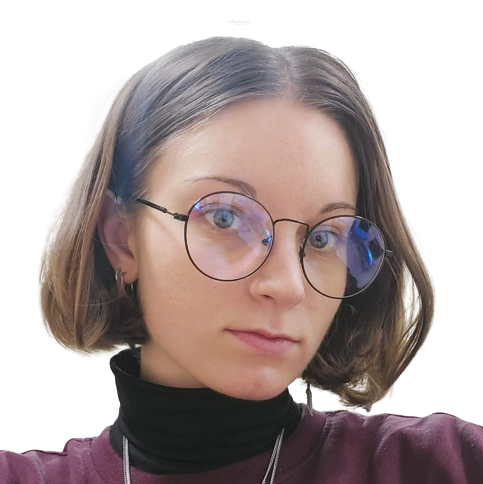
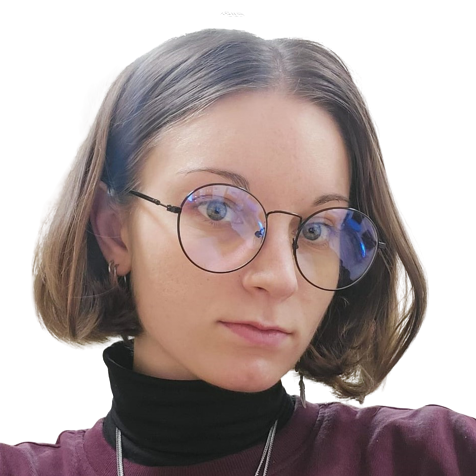
fixed img in About

diff --git a/assets/css+sass/about.css b/assets/css+sass/about.css
@@ -1,1 +1,1 @@
-@import url("https://fonts.googleapis.com/css2?family=Megrim&display=swap");@import url("https://fonts.googleapis.com/css2?family=Poiret+One&display=swap");@keyframes menuAppear{0%{opacity:0;margin-top:-50px}50%{opacity:0;margin-top:-50px}100%{opacity:1;margin-top:0}}@keyframes slide1Appear{0%{opacity:0;margin-left:-900px}100%{opacity:1;margin-left:0px}}@keyframes slide1Move{100%{transform:translateX(-50%)}}@keyframes img1Appear{from{opacity:0;margin-top:-500px}to{opacity:1;margin-top:0}}@keyframes img2Appear{from{opacity:0;margin-top:500px}to{opacity:1;margin-top:0}}@keyframes introductionAppear{0%{opacity:0;margin-bottom:-100px}50%{opacity:0;margin-bottom:-100px}100%{opacity:1;margin-bottom:0px}}@keyframes introOOAppear{0%{top:50%;left:50%;transform:translate(-50%, -50%);width:0px}15%{top:50%;left:50%;transform:translate(-50%, -50%);width:100px}25%{top:50%;left:50%;transform:translate(-50%, -50%);width:100px}75%{top:50%;left:50%;transform:translate(-50%, -50%);width:100px}100%{top:50%;left:0%;transform:translateY(-50%);width:55px}}@keyframes introLLAppear{0%{top:50%;left:50%;transform:translate(-50%, -50%);width:0px}15%{top:50%;left:50%;transform:translate(-50%, -50%);width:100px}25%{top:50%;left:50%;transform:translate(-50%, -50%);width:100px}75%{top:50%;left:50%;transform:translate(-50%, -50%);width:100px}100%{top:50%;left:25%;transform:translateY(-50%);width:55px}}@keyframes introGGAppear{0%{top:50%;left:50%;transform:translate(-50%, -50%);width:0px}15%{top:50%;left:50%;transform:translate(-50%, -50%);width:100px}25%{top:50%;left:50%;transform:translate(-50%, -50%);width:100px}75%{top:50%;left:50%;transform:translate(-50%, -50%);width:100px}100%{top:50%;left:50%;transform:translateY(-50%);width:55px}}@keyframes introAAAppear{0%{top:50%;left:50%;transform:translate(-50%, -50%);width:0px}15%{top:50%;left:50%;transform:translate(-50%, -50%);width:100px}25%{top:50%;left:50%;transform:translate(-50%, -50%);width:100px}75%{top:50%;left:50%;transform:translate(-50%, -50%);width:100px}100%{top:50%;left:75%;transform:translateY(-50%);width:55px}}@keyframes introPhrasesAppear{0%{color:transparent;height:0px;font-size:0px}25%{color:transparent;height:0px;font-size:0px}75%{color:transparent;height:170px;font-size:30px;letter-spacing:-10px}100%{color:#EFD6AC;height:170px;font-size:30px;letter-spacing:0}}@keyframes introPhrasesMobileAppear{0%{color:transparent;width:0px;font-size:0px}25%{color:transparent;width:0px;font-size:0px}75%{color:transparent;width:270px;font-size:25px !important;letter-spacing:-10px}100%{color:#EFD6AC;width:270px;font-size:25px !important;letter-spacing:0}}@keyframes pAppear{0%{color:transparent;font-size:0px}25%{color:transparent;font-size:0px}75%{color:transparent;font-size:30px;letter-spacing:-10px}100%{color:#EFD6AC;font-size:30px;letter-spacing:0}}@keyframes pMobileAppear{0%{color:transparent;font-size:0px}25%{color:transparent;font-size:0px}75%{color:transparent;font-size:25px;letter-spacing:-10px}100%{color:#EFD6AC;font-size:25px;letter-spacing:0}}@keyframes bDelay{0%{position:fixed}20%{position:fixed}50%{position:fixed}70%{position:fixed}100%{position:static}}@keyframes aboutImageContainerDivAppear{0%{border:1px solid transparent}20%{}50%{}60%{border-right:1px solid black}100%{border:1px solid black}}@keyframes aboutImageAppear{0%{border:1px solid black;border-radius:0%;height:0;width:0px}30%{width:200px}70%{height:0;border-radius:0%}100%{height:200px;border-radius:100%;border-right:1px solid black}}@keyframes aboutHiTitleAppear{0%{opacity:0;font-size:0}100%{opacity:1;font-size:50px}}@keyframes aboutPappear{0%{opacity:0;letter-spacing:-10px}20%{opacity:0;letter-spacing:-10px}50%{opacity:1;letter-spacing:0px}70%{opacity:1;letter-spacing:0px}100%{opacity:1}}@keyframes aboutMainAppear{0%{opacity:0;margin-top:300px}100%{opacity:1;margin-top:0px}}@keyframes pieBorder{0%{outline:1px solid transparent;outline-offset:0px;width:500px;height:500px}5%{outline:1px solid rgba(0,0,0,0.5);outline-offset:0px;width:500px;height:500px}100%{outline:1px solid transparent;outline-offset:30px;width:500px;height:500px}}@keyframes portfolioAppear{0%{opacity:0;margin-left:-500px}100%{opacity:1;margin-left:0}}@keyframes portfolioItemAppear{0%{opacity:0;margin-top:500px}100%{opacity:1;margin-top:0}}@keyframes pItemTitleAppear{0%{opacity:0;margin-top:100px}20%{opacity:0;margin-top:100px}100%{opacity:1;margin-top:0}}@keyframes itemDivAppear{0%{opacity:0;margin-top:300px}20%{opacity:0;margin-top:300px}100%{opacity:1;margin-top:0}}@keyframes arrowMove{from{opacity:0}to{opacity:1}}@keyframes contactAppear{0%{opacity:0;margin-left:-500px}100%{opacity:1;margin-left:0px}}@keyframes formFeedbackAppear{from{opacity:0;margin-right:-50px}to{opacity:1;margin-right:0px}}*{margin:0;padding:0;box-sizing:border-box}body{background-color:#EFD6AC;font-family:"Poiret One", cursive}.home-navigation{animation:menuAppear 1s}.about-section{margin:130px 70px 100px 70px}.about-section .about-hi{margin-bottom:50px;text-align:center}.about-section .about-hi .img-container{text-align:center;margin-bottom:30px;border-right:1px solid transparent}.about-section .about-hi .img-container .img-container-div{margin:0 auto;width:200px;height:200px;border:1px solid black;display:flex;align-items:center;justify-content:center;animation:aboutImageContainerDivAppear 1.5s}.about-section .about-hi .img-container .img-container-div img{text-align:center;border-radius:50%;border:1px solid black;background-color:#EFD6AC;width:200px;height:200px;z-index:99;animation:aboutImageAppear linear 1s}.about-section .about-hi .main-title{font-family:"Poiret One", cursive;font-size:50px;font-weight:bold;text-align:center;margin:50px 0;display:inline;animation:aboutHiTitleAppear 0.5s}.about-section .about-hi .main-p{font-family:"Poiret One", cursive;font-size:30px;font-weight:bold;text-align:center;margin:50px 10px;display:inline;letter-spacing:0;animation:aboutPappear 2.5s}.about-section .arrow-move{background-image:url("../../assets/img/portfolio/arrow.svg");background-size:40px;background-position:center;width:40px;height:40px;margin:30px auto;animation:menuAppear 1s}.about-section .arrow-move-1{animation:arrowMove 1s infinite}.about-section .arrow-move-2{margin-top:-45px;animation:arrowMove 1s infinite;animation-delay:0.1s}.about-section .arrow-move-3{margin-top:-45px;animation:arrowMove 1s infinite;animation-delay:0.2s}.about-section .about-main-div{display:flex;flex-wrap:wrap;justify-content:space-around;animation:aboutMainAppear ease-out 1.5s}.about-section .about-main-div h2{font-family:"Poiret One", cursive;font-size:55px;font-weight:bold;margin:50px}.about-section .about-main-div div{width:50%}.about-section .about-main-div .aboutme-container{z-index:109}.about-section .about-main-div .pie-section h2{text-align:center;font-weight:bold;margin-bottom:50px}.about-section .about-main-div .pie-section .pie{margin:0 auto;width:500px;height:500px;border-radius:50%;padding:0;background-image:conic-gradient(white 120deg, #4C0000 0 240deg, black 0deg);position:relative;transition:all 0.3s;animation-name:pieBorder;animation-duration:1.5s;animation-timing-function:linear;animation-iteration-count:infinite}.about-section .about-main-div .pie-section .pie .pie-div ul,.about-section .about-main-div .pie-section .pie .pie-div h3,.about-section .about-main-div .pie-section .pie .pie-div .altervista{transition:all 0.3s}.about-section .about-main-div .pie-section .pie:hover{border-radius:0%;animation:none}.about-section .about-main-div .pie-section .pie:hover .pie-frontend h3{top:7%;left:6%}.about-section .about-main-div .pie-section .pie:hover .pie-frontend ul{display:block;font-size:20px;font-weight:bold;z-index:999;top:30%;left:9%}.about-section .about-main-div .pie-section .pie:hover .pie-frontend ul li{line-height:33px}.about-section .about-main-div .pie-section .pie:hover .pie-frontend ul li::before{content:"";display:inline-block;background-image:url(../img/about/skills/arrow-beige.svg);width:15px;height:15px;background-size:contain;background-repeat:no-repeat;margin-right:5px;margin-left:-19.3px}.about-section .about-main-div .pie-section .pie:hover .pie-cms h3{top:10%;left:67%}.about-section .about-main-div .pie-section .pie:hover .pie-cms ul{display:block;font-size:20px;font-weight:bold;z-index:999;top:25%;left:67%;line-height:33px}.about-section .about-main-div .pie-section .pie:hover .pie-cms ul li{line-height:33px;white-space:nowrap}.about-section .about-main-div .pie-section .pie:hover .pie-cms ul li::before{content:"";display:inline-block;background-image:url(../img/about/skills/arrow-darkred.svg);width:15px;height:15px;background-size:contain;background-repeat:no-repeat;margin-right:5px;margin-left:-19.3px}.about-section .about-main-div .pie-section .pie:hover .pie-cms ul li .altervista{font-size:17px}.about-section .about-main-div .pie-section .pie:hover .pie-languages h3{bottom:27%;left:50%;transform:translateX(-50%)}.about-section .about-main-div .pie-section .pie:hover .pie-languages ul{display:block;font-size:20px;font-weight:bold;z-index:999;bottom:3%;left:50%;transform:translateX(-50%);line-height:33px}.about-section .about-main-div .pie-section .pie:hover .pie-languages ul li{line-height:33px}.about-section .about-main-div .pie-section .pie:hover .pie-languages ul li::before{content:"";display:inline-block;background-image:url(../img/about/skills/arrow-white.svg);width:15px;height:15px;background-size:contain;background-repeat:no-repeat;margin-right:5px;margin-left:-19.3px}.about-section .about-main-div .pie-section .pie .pie-div h3{position:absolute;font-weight:bold;font-size:35px}.about-section .about-main-div .pie-section .pie .pie-div ul{position:absolute;display:hidden;font-size:0px}.about-section .about-main-div .pie-section .pie .pie-frontend{color:#EFD6AC}.about-section .about-main-div .pie-section .pie .pie-frontend h3{top:29%;left:9%}.about-section .about-main-div .pie-section .pie .pie-frontend ul{top:60%;left:13%}.about-section .about-main-div .pie-section .pie .pie-frontend ul li{list-style-type:none}.about-section .about-main-div .pie-section .pie .pie-cms{color:#4C0000}.about-section .about-main-div .pie-section .pie .pie-cms h3{top:33%;left:67%}.about-section .about-main-div .pie-section .pie .pie-cms ul{top:33%;right:19%}.about-section .about-main-div .pie-section .pie .pie-cms ul li{list-style-type:none}.about-section .about-main-div .pie-section .pie .pie-cms ul li .altervista{font-size:0px;font-weight:bold}.about-section .about-main-div .pie-section .pie .pie-languages{color:white}.about-section .about-main-div .pie-section .pie .pie-languages h3{bottom:17%;left:50%;transform:translateX(-50%)}.about-section .about-main-div .pie-section .pie .pie-languages ul{bottom:10%;left:50%;transform:translateX(-50%)}.about-section .about-main-div .pie-section .pie .pie-languages ul li{list-style-type:none}.about-section .about-main-div .what-i-do-container{width:100%}.about-section .about-main-div .what-i-do-container h2{text-align:center}.about-section .about-main-div .what-i-do-container ul{margin:100px 50px 50px 50px}.about-section .about-main-div .what-i-do-container ul li{list-style-type:none;font-family:"Poiret One", cursive;font-size:30px;line-height:40px;margin-bottom:50px;text-align:center}.about-section .about-main-div .what-i-do-container ul li::before{content:"";display:block;width:80px;height:80px;background-size:contain;background-repeat:no-repeat;background-position:center;margin:15px auto}.about-section .about-main-div .what-i-do-container ul .what-i-do-code::before{background-image:url(../img/about/code.svg)}.about-section .about-main-div .what-i-do-container ul .what-i-do-editor::before{background-image:url(../img/about/editor.svg)}.about-section .about-main-div .what-i-want-container{width:40%;margin-top:100px;border-left:2px solid black}.about-section .about-main-div .what-i-want-container h2{padding:10px;color:#EFD6AC;background-color:black;font-size:50px}.about-section .about-main-div .what-i-want-container ul{margin:50px 50px 50px 70px}.about-section .about-main-div .what-i-want-container ul li{list-style-type:none;font-family:"Poiret One", cursive;font-size:25px;font-weight:bold;line-height:35px;margin-bottom:20px}.about-section .about-main-div .what-i-want-container ul li::before{content:"";display:inline-block;background-image:url(../img/about/skills/rombo-black.svg);width:15px;height:15px;background-size:contain;background-repeat:no-repeat;margin-right:5px;margin-left:-19.3px}.about-section .about-main-div .what-i-love-container{width:40%;margin-top:100px;border-left:2px solid #4C0000}.about-section .about-main-div .what-i-love-container h2{padding:10px;color:#EFD6AC;background-color:#4C0000}.about-section .about-main-div .what-i-love-container ul{margin:50px 50px 50px 70px}.about-section .about-main-div .what-i-love-container ul li{list-style-type:none;font-family:"Poiret One", cursive;font-size:25px;font-weight:bold;line-height:35px;margin-bottom:20px}.about-section .about-main-div .what-i-love-container ul li::before{content:"";display:inline-block;background-image:url(../img/about/skills/rombo-black.svg);width:15px;height:15px;background-size:contain;background-repeat:no-repeat;margin-right:5px;margin-left:-19.3px}.about-section .about-main-div .bio-container{width:70%}.about-section .about-main-div .bio-container h2{text-align:center}.about-section .about-main-div .bio-container ul{margin:50px}.about-section .about-main-div .bio-container ul li{list-style-type:none;font-family:"Poiret One", cursive;font-size:25px;line-height:35px;margin-bottom:20px;font-weight:bold}.about-section .about-main-div .bio-container ul li::before{content:"";display:inline-block;background-image:url(../img/about/skills/rombo-black.svg);width:15px;height:15px;background-size:contain;background-repeat:no-repeat;margin-right:5px;margin-left:-19.3px}.about-section .about-main-div .bio-container ul li span{color:#4C0000}.about-section .about-main-div .bio-container ul li a{text-decoration:none;font-weight:bold;color:#4C0000;font-family:"Megrim", cursive}@media only screen and (max-width: 1050px){.about-main-div{display:flex;flex-wrap:wrap !important;width:100%}.about-main-div div{width:100% !important}.about-main-div .aboutme-container{width:100%}.about-main-div .aboutme-container h2{text-align:center}.about-main-div .pie{width:500px !important}.about-main-div .what-i-do-container{margin:0 auto}.about-main-div .what-i-do-container h2{text-align:center}.about-main-div .what-i-do-container ul{margin:0 auto;text-align:center}.about-main-div .what-i-do-container ul li{display:inline-block;text-align:center;margin:0px 30px}.about-main-div .what-i-do-container ul li::before{content:"";display:block;background-image:url(../img/about/skills/rombo-black.svg);width:80px;height:80px;background-size:contain;background-repeat:no-repeat;background-position:center;margin:15px auto}.about-main-div .what-i-want-container{width:100%}.about-main-div .what-i-love-container{width:100%}.about-main-div .bio-container{width:100%}}@media screen and (max-width: 650px){.about-section{margin-left:auto;margin-right:auto}.about-section .about-hi .main-title{font-size:40px !important}.about-section .about-hi .main-p{font-size:20px !important;margin:50px 0px}.about-section .about-main-div{display:flex;flex-wrap:wrap;justify-content:center}.about-section .about-main-div h2{font-size:45px !important;margin:30px !important}.about-section .about-main-div div{width:100%}.about-section .about-main-div .pie-section{margin-left:0;margin-right:0}.about-section .about-main-div .pie-section h2{margin-bottom:30px !important}.about-section .about-main-div .pie-section .pie{border-radius:0%;background-image:none;position:static !important;animation:none;display:flex !important;justify-content:space-around;flex-wrap:wrap !important;font-weight:bold;line-height:33px;width:100% !important;margin-bottom:50px}.about-section .about-main-div .pie-section .pie:hover .pie-languages h3{transform:translateX(0%)}.about-section .about-main-div .pie-section .pie:hover .pie-languages ul{transform:translateX(0%)}.about-section .about-main-div .pie-section .pie .pie-div{width:45% !important;padding:25px;margin:10px;position:static}.about-section .about-main-div .pie-section .pie .pie-div h3{position:static !important;font-size:25px !important;padding:20px 0px 10px 0px;border-bottom:2px solid #EFD6AC;margin:-25px -25px 25px -25px;text-align:center}.about-section .about-main-div .pie-section .pie .pie-div ul{margin-left:10px;position:static !important;display:block !important;font-size:16px !important}.about-section .about-main-div .pie-section .pie .pie-frontend{color:#EFD6AC;background-color:black}.about-section .about-main-div .pie-section .pie .pie-frontend ul li{white-space:nowrap}.about-section .about-main-div .pie-section .pie .pie-frontend ul li::before{content:"";display:inline-block;background-image:url(../img/about/skills/arrow-beige.svg);width:15px;height:15px;background-size:contain;background-repeat:no-repeat;margin-right:5px;margin-left:-19.3px}.about-section .about-main-div .pie-section .pie .pie-cms{color:#4C0000;background-color:white}.about-section .about-main-div .pie-section .pie .pie-cms ul li::before{content:"";display:inline-block;background-image:url(../img/about/skills/arrow-darkred.svg);width:15px;height:15px;background-size:contain;background-repeat:no-repeat;margin-right:5px;margin-left:-19.3px}.about-section .about-main-div .pie-section .pie .pie-cms ul li .altervista{font-size:17px !important}.about-section .about-main-div .pie-section .pie .pie-languages{color:white;background-color:#4C0000;position:static}.about-section .about-main-div .pie-section .pie .pie-languages h3{transform:translateX(0%)}.about-section .about-main-div .pie-section .pie .pie-languages ul{transform:translateX(0%)}.about-section .about-main-div .pie-section .pie .pie-languages ul li::before{content:"";display:inline-block;background-image:url(../img/about/skills/arrow-white.svg);width:15px;height:15px;background-size:contain;background-repeat:no-repeat;margin-right:5px;margin-left:-19.3px}.about-section .about-main-div .what-i-do-container{width:100%}.about-section .about-main-div .what-i-do-container h2{text-align:center}.about-section .about-main-div .what-i-do-container ul{margin:50px}.about-section .about-main-div .what-i-do-container ul li{list-style-type:none;font-family:"Poiret One", cursive;font-size:25px;line-height:40px;margin-bottom:50px;text-align:center}.about-section .about-main-div .what-i-do-container ul li::before{content:"";display:block;width:80px;height:80px;background-size:contain;background-repeat:no-repeat;background-position:center;margin:15px auto}.about-section .about-main-div .what-i-do-container ul .what-i-do-code::before{background-image:url(../img/about/code.svg)}.about-section .about-main-div .what-i-do-container ul .what-i-do-editor::before{background-image:url(../img/about/editor.svg)}.about-section .about-main-div .what-i-want-container{position:static;margin-left:20px}.about-section .about-main-div .what-i-want-container h2{font-size:45px !important}.about-section .about-main-div .what-i-want-container ul{margin:20px 20px 20px 70px}.about-section .about-main-div .what-i-want-container ul li{font-size:20px}.about-section .about-main-div .what-i-love-container{margin-left:20px;margin-bottom:50px;margin-top:30px}.about-section .about-main-div .what-i-love-container h2{font-size:45px !important}.about-section .about-main-div .what-i-love-container ul{margin:20px 20px 20px 70px}.about-section .about-main-div .what-i-love-container ul li{font-size:20px}.about-section .about-main-div .bio-container h2{font-size:45px !important}.about-section .about-main-div .bio-container ul li{font-size:20px}}@media screen and (max-width: 500px){.about-section{margin-left:0px;margin-right:0px}.pie-section .pie{width:100% !important}.pie-section .pie .pie-div{width:100% !important}}@media screen and (max-width: 412px){h2{font-size:30px !important}li{white-space:normal !important}.what-i-want-container{margin-top:400px !important}}
+@import url("https://fonts.googleapis.com/css2?family=Megrim&display=swap");@import url("https://fonts.googleapis.com/css2?family=Poiret+One&display=swap");@keyframes menuAppear{0%{opacity:0;margin-top:-50px}50%{opacity:0;margin-top:-50px}100%{opacity:1;margin-top:0}}@keyframes slide1Appear{0%{opacity:0;margin-left:-900px}100%{opacity:1;margin-left:0px}}@keyframes slide1Move{100%{transform:translateX(-50%)}}@keyframes img1Appear{from{opacity:0;margin-top:-500px}to{opacity:1;margin-top:0}}@keyframes img2Appear{from{opacity:0;margin-top:500px}to{opacity:1;margin-top:0}}@keyframes introductionAppear{0%{opacity:0;margin-bottom:-100px}50%{opacity:0;margin-bottom:-100px}100%{opacity:1;margin-bottom:0px}}@keyframes introOOAppear{0%{top:50%;left:50%;transform:translate(-50%, -50%);width:0px}15%{top:50%;left:50%;transform:translate(-50%, -50%);width:100px}25%{top:50%;left:50%;transform:translate(-50%, -50%);width:100px}75%{top:50%;left:50%;transform:translate(-50%, -50%);width:100px}100%{top:50%;left:0%;transform:translateY(-50%);width:55px}}@keyframes introLLAppear{0%{top:50%;left:50%;transform:translate(-50%, -50%);width:0px}15%{top:50%;left:50%;transform:translate(-50%, -50%);width:100px}25%{top:50%;left:50%;transform:translate(-50%, -50%);width:100px}75%{top:50%;left:50%;transform:translate(-50%, -50%);width:100px}100%{top:50%;left:25%;transform:translateY(-50%);width:55px}}@keyframes introGGAppear{0%{top:50%;left:50%;transform:translate(-50%, -50%);width:0px}15%{top:50%;left:50%;transform:translate(-50%, -50%);width:100px}25%{top:50%;left:50%;transform:translate(-50%, -50%);width:100px}75%{top:50%;left:50%;transform:translate(-50%, -50%);width:100px}100%{top:50%;left:50%;transform:translateY(-50%);width:55px}}@keyframes introAAAppear{0%{top:50%;left:50%;transform:translate(-50%, -50%);width:0px}15%{top:50%;left:50%;transform:translate(-50%, -50%);width:100px}25%{top:50%;left:50%;transform:translate(-50%, -50%);width:100px}75%{top:50%;left:50%;transform:translate(-50%, -50%);width:100px}100%{top:50%;left:75%;transform:translateY(-50%);width:55px}}@keyframes introPhrasesAppear{0%{color:transparent;height:0px;font-size:0px}25%{color:transparent;height:0px;font-size:0px}75%{color:transparent;height:170px;font-size:30px;letter-spacing:-10px}100%{color:#EFD6AC;height:170px;font-size:30px;letter-spacing:0}}@keyframes introPhrasesMobileAppear{0%{color:transparent;width:0px;font-size:0px}25%{color:transparent;width:0px;font-size:0px}75%{color:transparent;width:270px;font-size:25px !important;letter-spacing:-10px}100%{color:#EFD6AC;width:270px;font-size:25px !important;letter-spacing:0}}@keyframes pAppear{0%{color:transparent;font-size:0px}25%{color:transparent;font-size:0px}75%{color:transparent;font-size:30px;letter-spacing:-10px}100%{color:#EFD6AC;font-size:30px;letter-spacing:0}}@keyframes pMobileAppear{0%{color:transparent;font-size:0px}25%{color:transparent;font-size:0px}75%{color:transparent;font-size:25px;letter-spacing:-10px}100%{color:#EFD6AC;font-size:25px;letter-spacing:0}}@keyframes bDelay{0%{position:fixed}20%{position:fixed}50%{position:fixed}70%{position:fixed}100%{position:static}}@keyframes aboutImageContainerDivAppear{0%{border:1px solid transparent}20%{}50%{}60%{border-right:1px solid black}100%{border:1px solid black}}@keyframes aboutImageAppear{0%{border:1px solid black;border-radius:0%;height:0;width:0px;object-fit:cover;background-color:black}30%{width:200px;object-fit:cover}70%{height:0;border-radius:0%;object-fit:cover}100%{height:200px;border-radius:100%;border-right:1px solid black;object-fit:cover;background-color:#EFD6AC}}@keyframes aboutHiTitleAppear{0%{opacity:0;font-size:0}100%{opacity:1;font-size:50px}}@keyframes aboutPappear{0%{opacity:0;letter-spacing:-10px}20%{opacity:0;letter-spacing:-10px}50%{opacity:1;letter-spacing:0px}70%{opacity:1;letter-spacing:0px}100%{opacity:1}}@keyframes aboutMainAppear{0%{opacity:0;margin-top:300px}100%{opacity:1;margin-top:0px}}@keyframes pieBorder{0%{outline:1px solid transparent;outline-offset:0px;width:500px;height:500px}5%{outline:1px solid rgba(0,0,0,0.5);outline-offset:0px;width:500px;height:500px}100%{outline:1px solid transparent;outline-offset:30px;width:500px;height:500px}}@keyframes portfolioAppear{0%{opacity:0;margin-left:-500px}100%{opacity:1;margin-left:0}}@keyframes portfolioItemAppear{0%{opacity:0;margin-top:500px}100%{opacity:1;margin-top:0}}@keyframes pItemTitleAppear{0%{opacity:0;margin-top:100px}20%{opacity:0;margin-top:100px}100%{opacity:1;margin-top:0}}@keyframes itemDivAppear{0%{opacity:0;margin-top:300px}20%{opacity:0;margin-top:300px}100%{opacity:1;margin-top:0}}@keyframes arrowMove{from{opacity:0}to{opacity:1}}@keyframes contactAppear{0%{opacity:0;margin-left:-500px}100%{opacity:1;margin-left:0px}}@keyframes formFeedbackAppear{from{opacity:0;margin-right:-50px}to{opacity:1;margin-right:0px}}*{margin:0;padding:0;box-sizing:border-box}body{background-color:#EFD6AC;font-family:"Poiret One", cursive}.home-navigation{animation:menuAppear 1s}.about-section{margin:130px 70px 100px 70px}.about-section .about-hi{margin-bottom:50px;text-align:center}.about-section .about-hi .img-container{text-align:center;margin-bottom:30px;border-right:1px solid transparent}.about-section .about-hi .img-container .img-container-div{margin:0 auto;width:200px;height:200px;border:1px solid black;display:flex;align-items:center;justify-content:center;animation:aboutImageContainerDivAppear 1.5s}.about-section .about-hi .img-container .img-container-div img{text-align:center;border-radius:50%;border:1px solid black;background-color:#EFD6AC;width:200px;height:200px;z-index:99;animation:aboutImageAppear linear 1s}.about-section .about-hi .main-title{font-family:"Poiret One", cursive;font-size:50px;font-weight:bold;text-align:center;margin:50px 0;display:inline;animation:aboutHiTitleAppear 0.5s}.about-section .about-hi .main-p{font-family:"Poiret One", cursive;font-size:30px;font-weight:bold;text-align:center;margin:50px 10px;display:inline;letter-spacing:0;animation:aboutPappear 2.5s}.about-section .arrow-move{background-image:url("../../assets/img/portfolio/arrow.svg");background-size:40px;background-position:center;width:40px;height:40px;margin:30px auto;animation:menuAppear 1s}.about-section .arrow-move-1{animation:arrowMove 1s infinite}.about-section .arrow-move-2{margin-top:-45px;animation:arrowMove 1s infinite;animation-delay:0.1s}.about-section .arrow-move-3{margin-top:-45px;animation:arrowMove 1s infinite;animation-delay:0.2s}.about-section .about-main-div{display:flex;flex-wrap:wrap;justify-content:space-around;animation:aboutMainAppear ease-out 1.5s}.about-section .about-main-div h2{font-family:"Poiret One", cursive;font-size:55px;font-weight:bold;margin:50px}.about-section .about-main-div div{width:50%}.about-section .about-main-div .aboutme-container{z-index:109}.about-section .about-main-div .pie-section h2{text-align:center;font-weight:bold;margin-bottom:50px}.about-section .about-main-div .pie-section .pie{margin:0 auto;width:500px;height:500px;border-radius:50%;padding:0;background-image:conic-gradient(white 120deg, #4C0000 0 240deg, black 0deg);position:relative;transition:all 0.3s;animation-name:pieBorder;animation-duration:1.5s;animation-timing-function:linear;animation-iteration-count:infinite}.about-section .about-main-div .pie-section .pie .pie-div ul,.about-section .about-main-div .pie-section .pie .pie-div h3,.about-section .about-main-div .pie-section .pie .pie-div .altervista{transition:all 0.3s}.about-section .about-main-div .pie-section .pie:hover{border-radius:0%;animation:none}.about-section .about-main-div .pie-section .pie:hover .pie-frontend h3{top:7%;left:6%}.about-section .about-main-div .pie-section .pie:hover .pie-frontend ul{display:block;font-size:20px;font-weight:bold;z-index:999;top:30%;left:9%}.about-section .about-main-div .pie-section .pie:hover .pie-frontend ul li{line-height:33px}.about-section .about-main-div .pie-section .pie:hover .pie-frontend ul li::before{content:"";display:inline-block;background-image:url(../img/about/skills/arrow-beige.svg);width:15px;height:15px;background-size:contain;background-repeat:no-repeat;margin-right:5px;margin-left:-19.3px}.about-section .about-main-div .pie-section .pie:hover .pie-cms h3{top:10%;left:67%}.about-section .about-main-div .pie-section .pie:hover .pie-cms ul{display:block;font-size:20px;font-weight:bold;z-index:999;top:25%;left:67%;line-height:33px}.about-section .about-main-div .pie-section .pie:hover .pie-cms ul li{line-height:33px;white-space:nowrap}.about-section .about-main-div .pie-section .pie:hover .pie-cms ul li::before{content:"";display:inline-block;background-image:url(../img/about/skills/arrow-darkred.svg);width:15px;height:15px;background-size:contain;background-repeat:no-repeat;margin-right:5px;margin-left:-19.3px}.about-section .about-main-div .pie-section .pie:hover .pie-cms ul li .altervista{font-size:17px}.about-section .about-main-div .pie-section .pie:hover .pie-languages h3{bottom:27%;left:50%;transform:translateX(-50%)}.about-section .about-main-div .pie-section .pie:hover .pie-languages ul{display:block;font-size:20px;font-weight:bold;z-index:999;bottom:3%;left:50%;transform:translateX(-50%);line-height:33px}.about-section .about-main-div .pie-section .pie:hover .pie-languages ul li{line-height:33px}.about-section .about-main-div .pie-section .pie:hover .pie-languages ul li::before{content:"";display:inline-block;background-image:url(../img/about/skills/arrow-white.svg);width:15px;height:15px;background-size:contain;background-repeat:no-repeat;margin-right:5px;margin-left:-19.3px}.about-section .about-main-div .pie-section .pie .pie-div h3{position:absolute;font-weight:bold;font-size:35px}.about-section .about-main-div .pie-section .pie .pie-div ul{position:absolute;display:hidden;font-size:0px}.about-section .about-main-div .pie-section .pie .pie-frontend{color:#EFD6AC}.about-section .about-main-div .pie-section .pie .pie-frontend h3{top:29%;left:9%}.about-section .about-main-div .pie-section .pie .pie-frontend ul{top:60%;left:13%}.about-section .about-main-div .pie-section .pie .pie-frontend ul li{list-style-type:none}.about-section .about-main-div .pie-section .pie .pie-cms{color:#4C0000}.about-section .about-main-div .pie-section .pie .pie-cms h3{top:33%;left:67%}.about-section .about-main-div .pie-section .pie .pie-cms ul{top:33%;right:19%}.about-section .about-main-div .pie-section .pie .pie-cms ul li{list-style-type:none}.about-section .about-main-div .pie-section .pie .pie-cms ul li .altervista{font-size:0px;font-weight:bold}.about-section .about-main-div .pie-section .pie .pie-languages{color:white}.about-section .about-main-div .pie-section .pie .pie-languages h3{bottom:17%;left:50%;transform:translateX(-50%)}.about-section .about-main-div .pie-section .pie .pie-languages ul{bottom:10%;left:50%;transform:translateX(-50%)}.about-section .about-main-div .pie-section .pie .pie-languages ul li{list-style-type:none}.about-section .about-main-div .what-i-do-container{width:100%}.about-section .about-main-div .what-i-do-container h2{text-align:center}.about-section .about-main-div .what-i-do-container ul{margin:100px 50px 50px 50px}.about-section .about-main-div .what-i-do-container ul li{list-style-type:none;font-family:"Poiret One", cursive;font-size:30px;line-height:40px;margin-bottom:50px;text-align:center}.about-section .about-main-div .what-i-do-container ul li::before{content:"";display:block;width:80px;height:80px;background-size:contain;background-repeat:no-repeat;background-position:center;margin:15px auto}.about-section .about-main-div .what-i-do-container ul .what-i-do-code::before{background-image:url(../img/about/code.svg)}.about-section .about-main-div .what-i-do-container ul .what-i-do-editor::before{background-image:url(../img/about/editor.svg)}.about-section .about-main-div .what-i-want-container{width:40%;margin-top:100px;border-left:2px solid black}.about-section .about-main-div .what-i-want-container h2{padding:10px;color:#EFD6AC;background-color:black;font-size:50px}.about-section .about-main-div .what-i-want-container ul{margin:50px 50px 50px 70px}.about-section .about-main-div .what-i-want-container ul li{list-style-type:none;font-family:"Poiret One", cursive;font-size:25px;font-weight:bold;line-height:35px;margin-bottom:20px}.about-section .about-main-div .what-i-want-container ul li::before{content:"";display:inline-block;background-image:url(../img/about/skills/rombo-black.svg);width:15px;height:15px;background-size:contain;background-repeat:no-repeat;margin-right:5px;margin-left:-19.3px}.about-section .about-main-div .what-i-love-container{width:40%;margin-top:100px;border-left:2px solid #4C0000}.about-section .about-main-div .what-i-love-container h2{padding:10px;color:#EFD6AC;background-color:#4C0000}.about-section .about-main-div .what-i-love-container ul{margin:50px 50px 50px 70px}.about-section .about-main-div .what-i-love-container ul li{list-style-type:none;font-family:"Poiret One", cursive;font-size:25px;font-weight:bold;line-height:35px;margin-bottom:20px}.about-section .about-main-div .what-i-love-container ul li::before{content:"";display:inline-block;background-image:url(../img/about/skills/rombo-black.svg);width:15px;height:15px;background-size:contain;background-repeat:no-repeat;margin-right:5px;margin-left:-19.3px}.about-section .about-main-div .bio-container{width:70%}.about-section .about-main-div .bio-container h2{text-align:center}.about-section .about-main-div .bio-container ul{margin:50px}.about-section .about-main-div .bio-container ul li{list-style-type:none;font-family:"Poiret One", cursive;font-size:25px;line-height:35px;margin-bottom:20px;font-weight:bold}.about-section .about-main-div .bio-container ul li::before{content:"";display:inline-block;background-image:url(../img/about/skills/rombo-black.svg);width:15px;height:15px;background-size:contain;background-repeat:no-repeat;margin-right:5px;margin-left:-19.3px}.about-section .about-main-div .bio-container ul li span{color:#4C0000}.about-section .about-main-div .bio-container ul li a{text-decoration:none;font-weight:bold;color:#4C0000;font-family:"Megrim", cursive}@media only screen and (max-width: 1050px){.about-main-div{display:flex;flex-wrap:wrap !important;width:100%}.about-main-div div{width:100% !important}.about-main-div .aboutme-container{width:100%}.about-main-div .aboutme-container h2{text-align:center}.about-main-div .pie{width:500px !important}.about-main-div .what-i-do-container{margin:0 auto}.about-main-div .what-i-do-container h2{text-align:center}.about-main-div .what-i-do-container ul{margin:0 auto;text-align:center}.about-main-div .what-i-do-container ul li{display:inline-block;text-align:center;margin:0px 30px}.about-main-div .what-i-do-container ul li::before{content:"";display:block;background-image:url(../img/about/skills/rombo-black.svg);width:80px;height:80px;background-size:contain;background-repeat:no-repeat;background-position:center;margin:15px auto}.about-main-div .what-i-want-container{width:100%}.about-main-div .what-i-love-container{width:100%}.about-main-div .bio-container{width:100%}}@media screen and (max-width: 650px){.about-section{margin-left:auto;margin-right:auto}.about-section .about-hi .main-title{font-size:40px !important}.about-section .about-hi .main-p{font-size:20px !important;margin:50px 0px}.about-section .about-main-div{display:flex;flex-wrap:wrap;justify-content:center}.about-section .about-main-div h2{font-size:45px !important;margin:30px !important}.about-section .about-main-div div{width:100%}.about-section .about-main-div .pie-section{margin-left:0;margin-right:0}.about-section .about-main-div .pie-section h2{margin-bottom:30px !important}.about-section .about-main-div .pie-section .pie{border-radius:0%;background-image:none;position:static !important;animation:none;display:flex !important;justify-content:space-around;flex-wrap:wrap !important;font-weight:bold;line-height:33px;width:100% !important;margin-bottom:50px}.about-section .about-main-div .pie-section .pie:hover .pie-languages h3{transform:translateX(0%)}.about-section .about-main-div .pie-section .pie:hover .pie-languages ul{transform:translateX(0%)}.about-section .about-main-div .pie-section .pie .pie-div{width:45% !important;padding:25px;margin:10px;position:static}.about-section .about-main-div .pie-section .pie .pie-div h3{position:static !important;font-size:25px !important;padding:20px 0px 10px 0px;border-bottom:2px solid #EFD6AC;margin:-25px -25px 25px -25px;text-align:center}.about-section .about-main-div .pie-section .pie .pie-div ul{margin-left:10px;position:static !important;display:block !important;font-size:16px !important}.about-section .about-main-div .pie-section .pie .pie-frontend{color:#EFD6AC;background-color:black}.about-section .about-main-div .pie-section .pie .pie-frontend ul li{white-space:nowrap}.about-section .about-main-div .pie-section .pie .pie-frontend ul li::before{content:"";display:inline-block;background-image:url(../img/about/skills/arrow-beige.svg);width:15px;height:15px;background-size:contain;background-repeat:no-repeat;margin-right:5px;margin-left:-19.3px}.about-section .about-main-div .pie-section .pie .pie-cms{color:#4C0000;background-color:white}.about-section .about-main-div .pie-section .pie .pie-cms ul li::before{content:"";display:inline-block;background-image:url(../img/about/skills/arrow-darkred.svg);width:15px;height:15px;background-size:contain;background-repeat:no-repeat;margin-right:5px;margin-left:-19.3px}.about-section .about-main-div .pie-section .pie .pie-cms ul li .altervista{font-size:17px !important}.about-section .about-main-div .pie-section .pie .pie-languages{color:white;background-color:#4C0000;position:static}.about-section .about-main-div .pie-section .pie .pie-languages h3{transform:translateX(0%)}.about-section .about-main-div .pie-section .pie .pie-languages ul{transform:translateX(0%)}.about-section .about-main-div .pie-section .pie .pie-languages ul li::before{content:"";display:inline-block;background-image:url(../img/about/skills/arrow-white.svg);width:15px;height:15px;background-size:contain;background-repeat:no-repeat;margin-right:5px;margin-left:-19.3px}.about-section .about-main-div .what-i-do-container{width:100%}.about-section .about-main-div .what-i-do-container h2{text-align:center}.about-section .about-main-div .what-i-do-container ul{margin:50px}.about-section .about-main-div .what-i-do-container ul li{list-style-type:none;font-family:"Poiret One", cursive;font-size:25px;line-height:40px;margin-bottom:50px;text-align:center}.about-section .about-main-div .what-i-do-container ul li::before{content:"";display:block;width:80px;height:80px;background-size:contain;background-repeat:no-repeat;background-position:center;margin:15px auto}.about-section .about-main-div .what-i-do-container ul .what-i-do-code::before{background-image:url(../img/about/code.svg)}.about-section .about-main-div .what-i-do-container ul .what-i-do-editor::before{background-image:url(../img/about/editor.svg)}.about-section .about-main-div .what-i-want-container{position:static;margin-left:20px}.about-section .about-main-div .what-i-want-container h2{font-size:45px !important}.about-section .about-main-div .what-i-want-container ul{margin:20px 20px 20px 70px}.about-section .about-main-div .what-i-want-container ul li{font-size:20px}.about-section .about-main-div .what-i-love-container{margin-left:20px;margin-bottom:50px;margin-top:30px}.about-section .about-main-div .what-i-love-container h2{font-size:45px !important}.about-section .about-main-div .what-i-love-container ul{margin:20px 20px 20px 70px}.about-section .about-main-div .what-i-love-container ul li{font-size:20px}.about-section .about-main-div .bio-container h2{font-size:45px !important}.about-section .about-main-div .bio-container ul li{font-size:20px}}@media screen and (max-width: 500px){.about-section{margin-left:0px;margin-right:0px}.pie-section .pie{width:100% !important}.pie-section .pie .pie-div{width:100% !important}}@media screen and (max-width: 412px){h2{font-size:30px !important}li{white-space:normal !important}.what-i-want-container{margin-top:400px !important}}

diff --git a/assets/css+sass/_partials.scss b/assets/css+sass/_partials.scss
@@ -440,10 +440,13 @@ $beige: #EFD6AC;
           border-radius: 0%;
           height: 0;
           width: 0px;
+          object-fit: cover;
+          background-color: black;
         }
 
         30% {
           width: 200px;
+          object-fit: cover;
 
         }
 
@@ -451,6 +454,7 @@ $beige: #EFD6AC;
         70% {
           height: 0;
           border-radius: 0%;
+          object-fit: cover;
 
         }
 
@@ -458,6 +462,8 @@ $beige: #EFD6AC;
           height: 200px;
           border-radius: 100%;
           border-right: 1px solid black;
+          object-fit: cover;
+          background-color: $beige;
 
         }
       }
@@ -521,7 +527,7 @@ $beige: #EFD6AC;
         }
       }
 
-      
+
 
       @keyframes pieBorder {
         0% {
